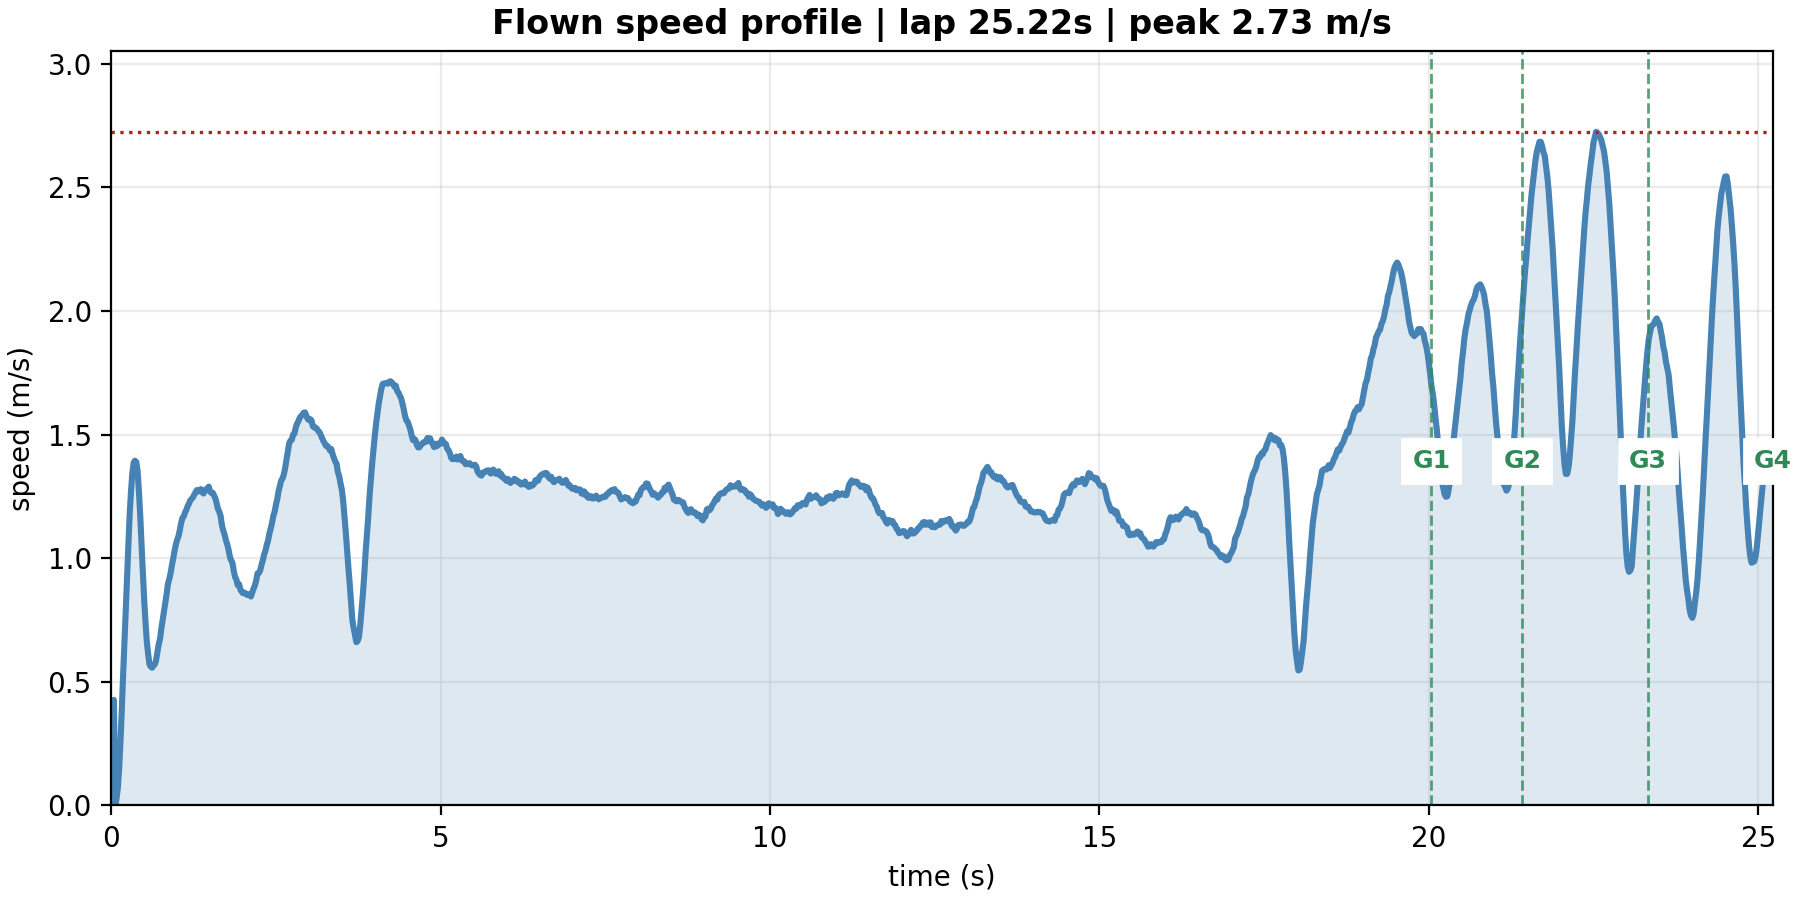
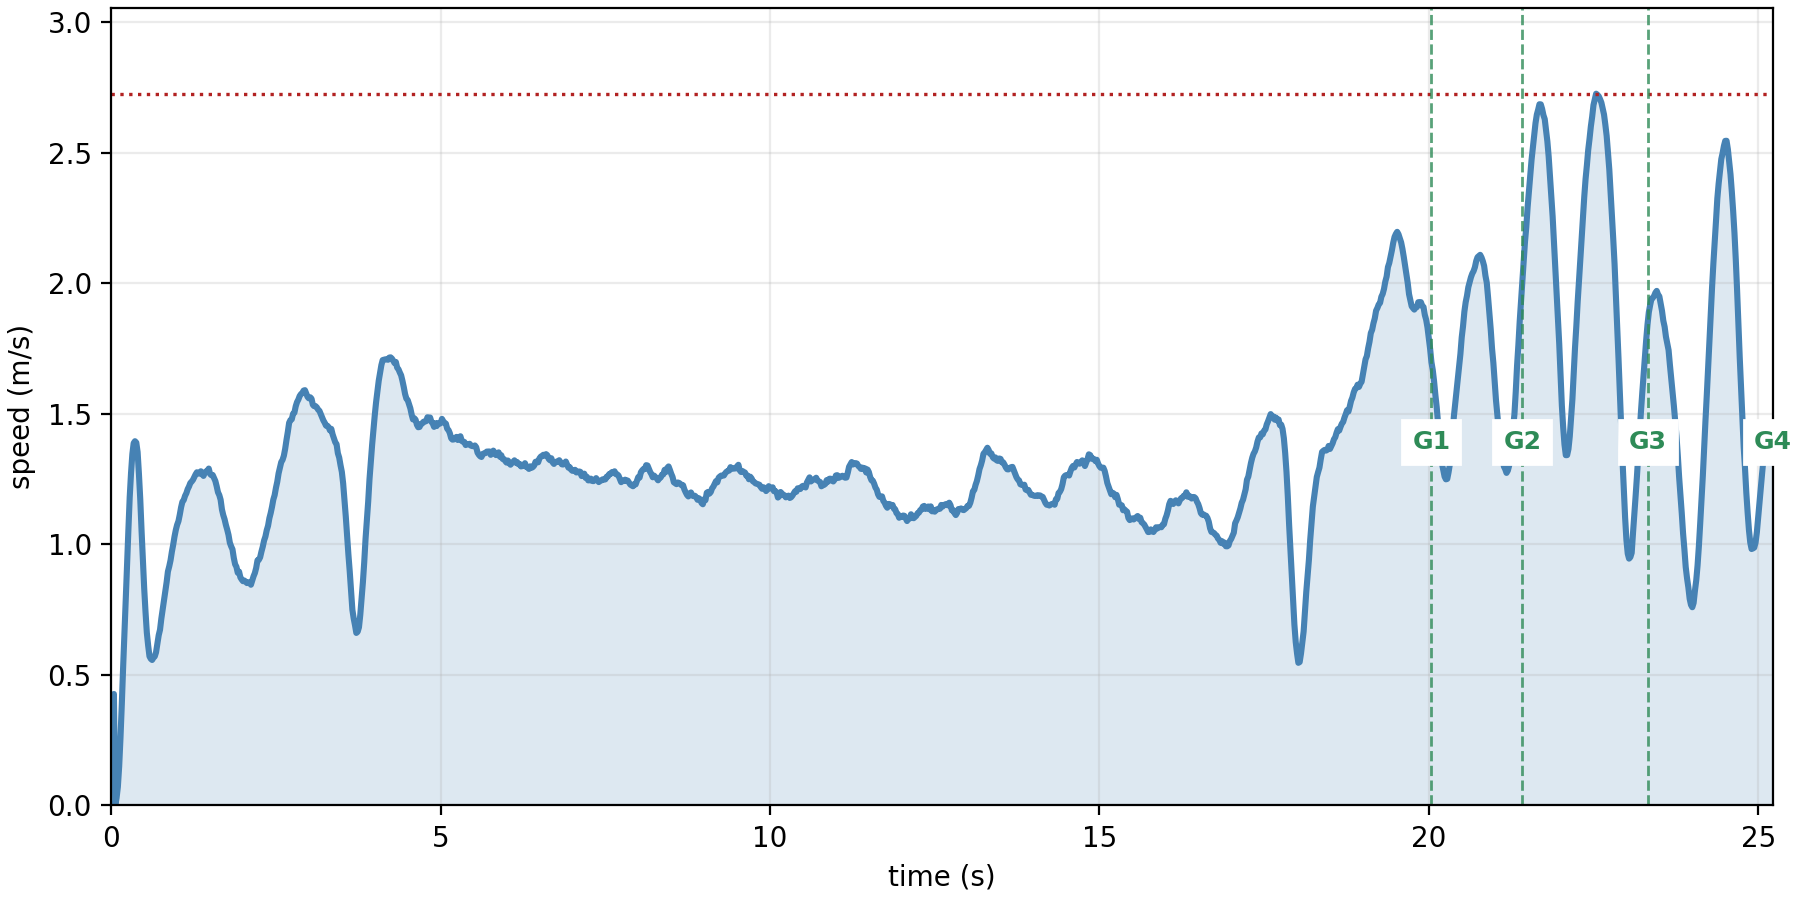
Update flight report script to simplify plotting functions and remove title parameters; add new figures for report generation

diff --git a/scripts/flight_report.py b/scripts/flight_report.py
@@ -132,7 +132,7 @@ def _colored_line_2d(ax, x, y, c, norm):
     return lc
 
 
-def _plot_topdown(traj, title, path):
+def _plot_topdown(traj, path):
     x, y = traj["pos"][:, 0], traj["pos"][:, 1]
     norm = plt.Normalize(0, traj["spd"].max())
     fig, ax = plt.subplots(figsize=(8, 7), constrained_layout=True)
@@ -162,7 +162,6 @@ def _plot_topdown(traj, title, path):
     ax.set_aspect("equal")
     ax.set_xlabel("x (m)")
     ax.set_ylabel("y (m)")
-    ax.set_title(title, fontsize=11)
     ax.margins(0.12)
     fig.savefig(path, dpi=200)
     plt.close(fig)
@@ -181,7 +180,7 @@ def _crossing_dir(traj, gate_idx):
     return v / n if n > 1e-9 else np.array([1.0, 0.0])
 
 
-def _plot_3d(traj, title, path):
+def _plot_3d(traj, path):
     p, sp = traj["pos"], traj["spd"]
     z = p[:, 2]
     k = int(np.argmax(z > 0.2)) if (z > 0.2).any() else 0  # drop the ground-level takeoff climb
@@ -214,12 +213,11 @@ def _plot_3d(traj, title, path):
     ax.set_zlabel("z (m)")
     ax.set_zlim(0, max(1.6, p[:, 2].max() + 0.2))
     ax.view_init(elev=22, azim=-61)
-    ax.set_title(title, fontsize=11)
     fig.savefig(path, dpi=200, bbox_inches="tight")
     plt.close(fig)
 
 
-def _plot_speed(traj, title, path):
+def _plot_speed(traj, path):
     t, s = traj["t"], traj["spd"]
     fig, ax = plt.subplots(figsize=(9, 4.5), constrained_layout=True)
     ax.fill_between(t, s, alpha=0.18, color="steelblue")
@@ -233,13 +231,12 @@ def _plot_speed(traj, title, path):
     ax.set_ylabel("speed (m/s)")
     ax.set_xlim(t[0], t[-1])
     ax.set_ylim(0, s.max() * 1.12)
-    ax.set_title(title, fontsize=12, fontweight="bold")
     ax.grid(alpha=0.25)
     fig.savefig(path, dpi=200)
     plt.close(fig)
 
 
-def _plot_montage(traj, title, path, cols=3):
+def _plot_montage(traj, path, cols=3):
     frames = traj["montage"]
     rows = int(np.ceil(len(frames) / cols))
     fig, axes = plt.subplots(rows, cols, figsize=(4 * cols, 2.3 * rows), constrained_layout=True)
@@ -250,7 +247,6 @@ def _plot_montage(traj, title, path, cols=3):
         ax.axis("off")
     for ax in np.ravel(axes)[len(frames):]:
         ax.axis("off")
-    fig.suptitle(title, fontsize=12, fontweight="bold")
     fig.savefig(path, dpi=150)
     plt.close(fig)
 
@@ -284,21 +280,14 @@ def report(
     out_dir = Path(__file__).parents[1] / out
     out_dir.mkdir(parents=True, exist_ok=True)
 
-    name = controller.replace(".py", "")
     lap = traj["lap"]
     peak = traj["spd"].max()
-    ng, no = len(traj["gates"]), len(traj["obstacles"])
     end = "finished" if traj["finished"] else "CRASHED"
 
-    _plot_3d(traj, f"{config} - {name} flown racing line (3D)",
-             out_dir / "fig_3d.png")
-    _plot_topdown(traj, f"{config} - {name} flown racing line\n"
-                        f"top-down | lap {lap:.2f}s ({end}) | {ng} gates, {no} obstacles",
-                  out_dir / "fig_topdown.png")
-    _plot_speed(traj, f"Flown speed profile | lap {lap:.2f}s | peak {peak:.2f} m/s",
-                out_dir / "fig_speed.png")
-    _plot_montage(traj, f"{name} flying the track (MuJoCo render, green = live plan)",
-                  out_dir / "fig_montage.png")
+    _plot_3d(traj, out_dir / "fig_3d.png")
+    _plot_topdown(traj, out_dir / "fig_topdown.png")
+    _plot_speed(traj, out_dir / "fig_speed.png")
+    _plot_montage(traj, out_dir / "fig_montage.png")
 
     logger.info("Wrote 4 figures to %s (lap %.2fs, %s, peak %.2f m/s, attempt %d)",
                 out_dir, lap, end, peak, traj.get("attempt", 1))
